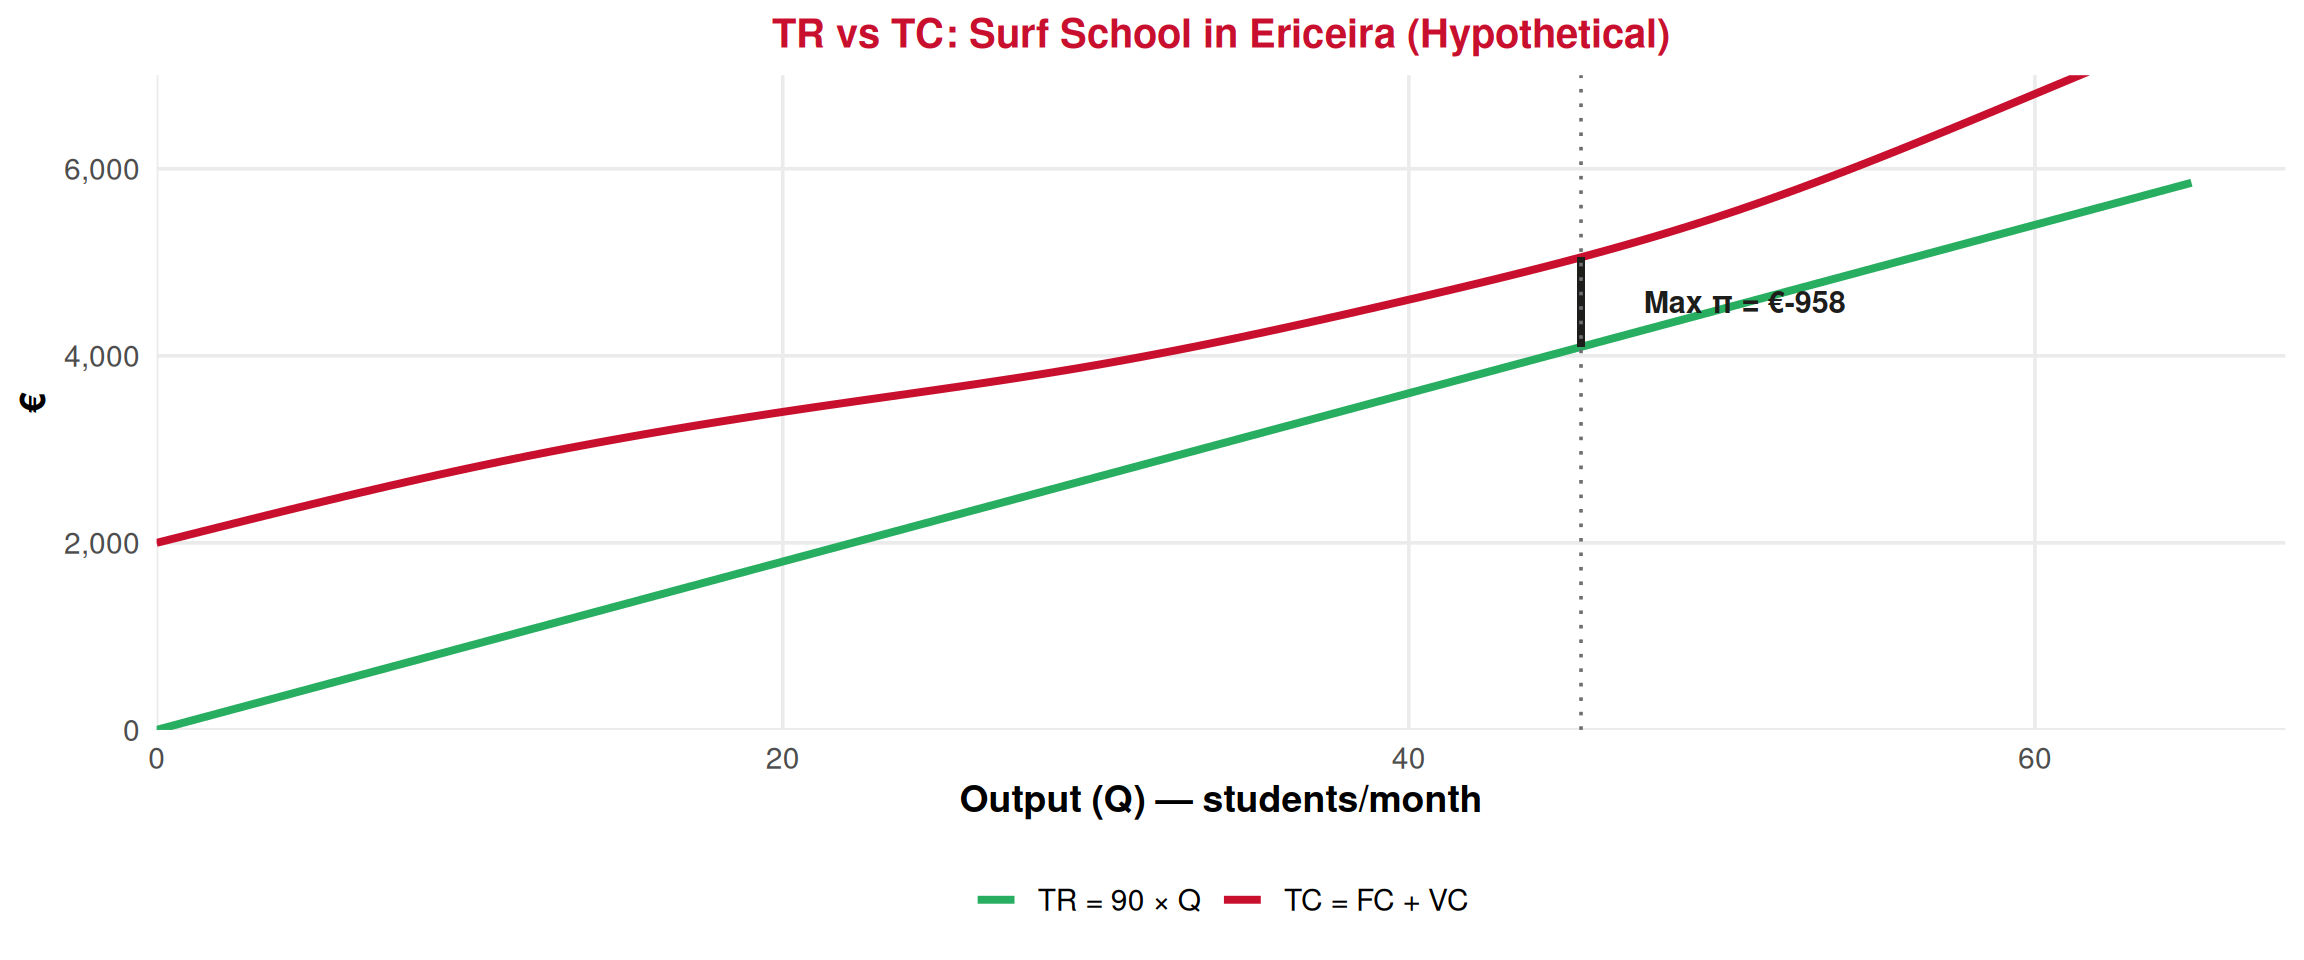
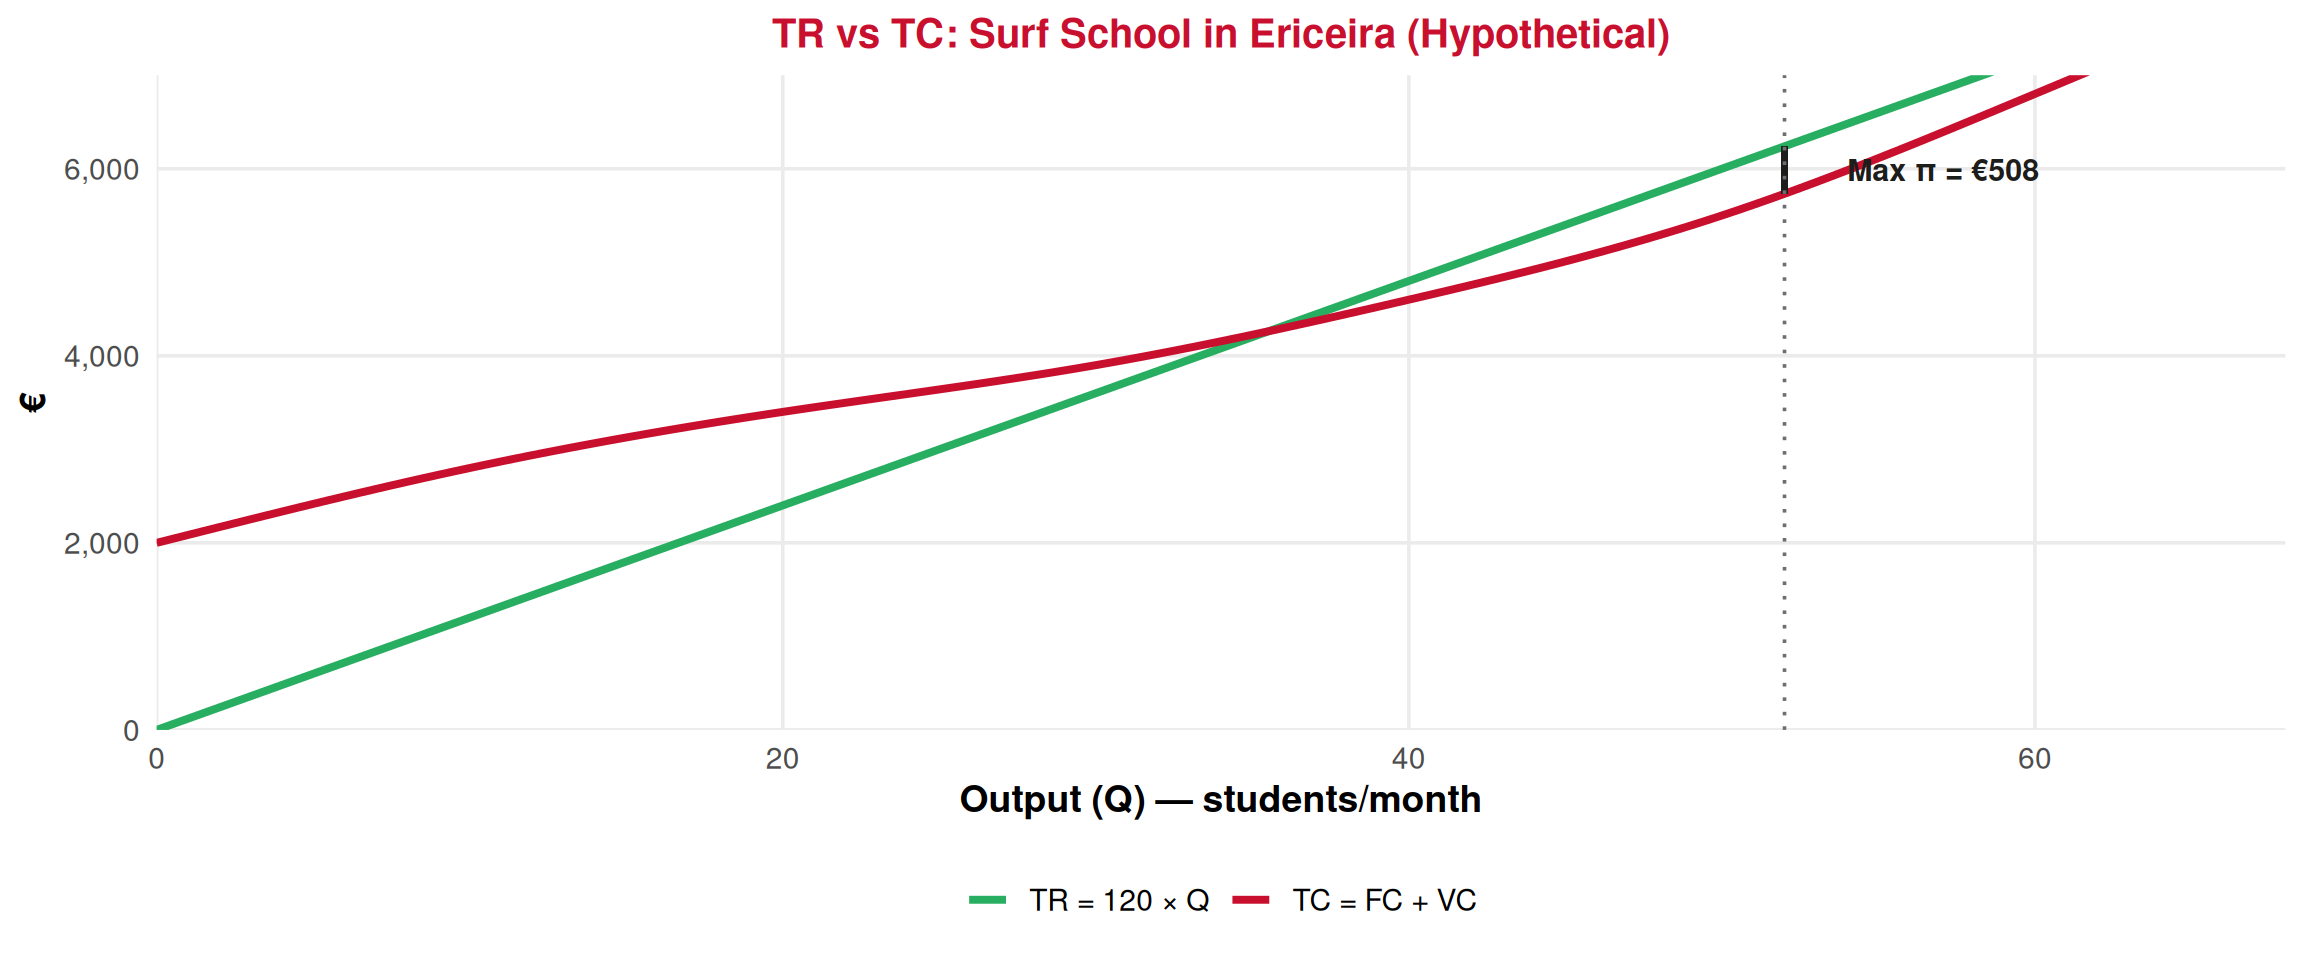
fix plots lecture 11

diff --git a/docs/slides/lecture11-profit-max.html b/docs/slides/lecture11-profit-max.html
@@ -6,8 +6,8 @@
 <script src="../site_libs/quarto-html/tippy.umd.min.js"></script>
 <link href="../site_libs/quarto-html/tippy.css" rel="stylesheet">
 <link href="../site_libs/quarto-html/light-border.css" rel="stylesheet">
-<link href="../site_libs/quarto-html/quarto-syntax-highlighting-587c61ba64f3a5504c4d52d930310e48.css" rel="stylesheet" id="quarto-text-highlighting-styles"><meta charset="utf-8">
-  <meta name="generator" content="quarto-1.8.26">
+<link href="../site_libs/quarto-html/quarto-syntax-highlighting-7b89279ff1a6dce999919e0e67d4d9ec.css" rel="stylesheet" id="quarto-text-highlighting-styles"><meta charset="utf-8">
+  <meta name="generator" content="quarto-1.8.25">
 
   <meta name="author" content="Paulo Fagandini">
   <meta name="dcterms.date" content="2026-01-01">
@@ -285,8 +285,8 @@ Paulo Fagandini
 </div>
 </div>
 </div>
-<p><span class="emoji" data-emoji="point_right">👉</span> <strong>Profit</strong> = vertical gap between TR and TC. Maximum profit is where this gap is <strong>widest</strong> — at around <strong>Q* ≈ 48 students</strong>.</p>
-<p><em>This uses the surf school data from last lecture’s exercise, with P = €90/student.</em></p>
+<p><span class="emoji" data-emoji="point_right">👉</span> <strong>Profit</strong> = vertical gap between TR and TC. Maximum profit is where this gap is <strong>widest</strong> — at around <strong>Q* ≈ 52 students</strong>.</p>
+<p><em>This uses the surf school data from last lecture’s exercise, with P = €120/student.</em></p>
 </div>
 </section>
 <section id="approach-2-mr-vs-mc-the-per-unit-view" class="slide level2">
